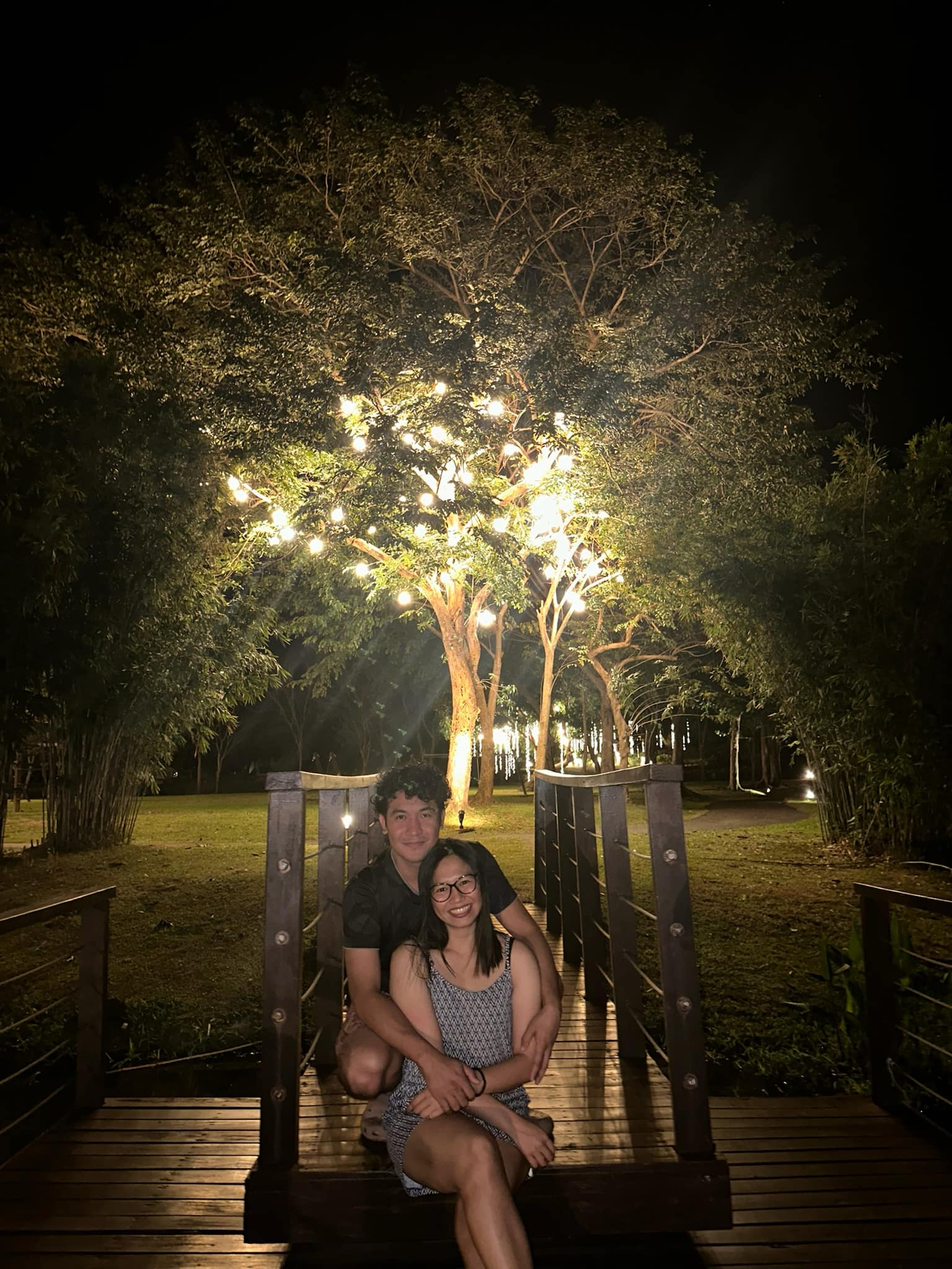
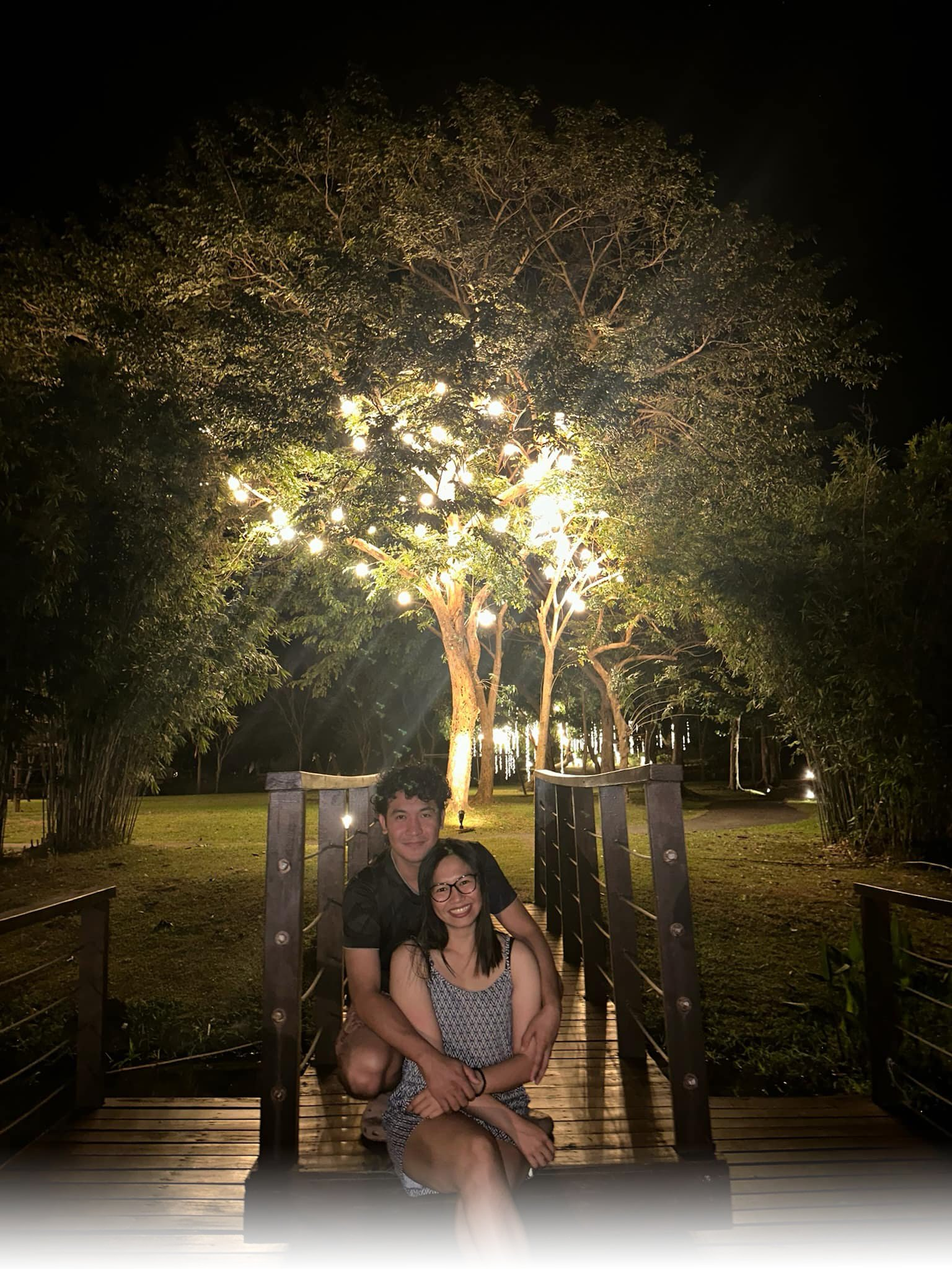
update

Changed region(s): [[0.0, 0.9062, 1.0, 1.0]]

diff --git a/index.html b/index.html
@@ -12,15 +12,15 @@
     <link href="https://fonts.googleapis.com/css2?family=Roboto:ital,wght@0,100;0,300;0,400;0,500;0,700;0,900;1,100;1,300;1,400;1,500;1,700;1,900&display=swap" rel="stylesheet">
     <link rel="stylesheet" href="style.css">
 </head>
-<body>
+<body class="bg-body-secondary">
     <div class="hero">
-        <div class="header p-2 d-flex justify-content-between align-items-center shadow">
+        <div class="header position-sticky p-2 d-flex justify-content-between align-items-center shadow">
             <div class="icon">
-                <p class="mb-0 roboto-500">Home</p>
+                <p class="mb-0 roboto-300 fs-3 pt-1">HOME</p>
             </div>
             <div class="menu">
-                <div class=" p-0"  data-bs-toggle="offcanvas" data-bs-target="#offcanvasExample" aria-controls="offcanvasExample">
-                    <i class="fa-solid fa-bars"></i>
+                <div class="p-0 pt-1"  data-bs-toggle="offcanvas" data-bs-target="#offcanvasExample" aria-controls="offcanvasExample">
+                    <i class="fa-solid fa-bars fs-3"></i>
                 </div>
                     
                 <div class="offcanvas offcanvas-start" style="width: 15rem;" tabindex="-1" id="offcanvasExample" aria-labelledby="offcanvasExampleLabel">
@@ -50,43 +50,58 @@
         <div class="landing mb-2">
             
             <div class="landing-body text-center">
-                <div>
-                    <h3 class="name alex display-1 text-light mb-0">Allen & Alexis</h3>
+                <div class="names mx-auto">
+                    <h3 class="name alex display-1 text-light mb-0" style="font-size: 7rem;">Allen</h3>
+                    <h3 class="name alex display-1 text-light mb-0" style="font-size: 7rem;">& Alexis</h3>
                 </div>
-                <div id="countdown" class="d-flex justify-content-center gap-2 text-light roboto-300">
-                    <div class="d-flex flex-column justify-content-center">
-                        <p id="day" class="fs-4 mb-0">00</p>
-                        <p class="roboto-300" style="font-size: 0.7rem;">Days</p>
-                    </div>
-                    <p class="pt-1">:</p>
-                    <div class="d-flex flex-column justify-content-center">
-                        <p id="hour" class="fs-4 mb-0">00</p>
-                        <p class="roboto-300" style="font-size: 0.7rem;">Hours</p>
-                    </div>
-                    <p class="pt-1">:</p>
-                    <div class="d-flex flex-column justify-content-center">
-                        <p id="minute" class="fs-4 mb-0">00</p>
-                        <p class="roboto-300" style="font-size: 0.7rem;">Mins</p>
-                    </div>
-                    <p class="pt-1">:</p>
-                    <div class="d-flex flex-column justify-content-center">
-                        <p id="second" class="fs-4 mb-0">00</p>
-                        <p class="roboto-300" style="font-size: 0.7rem;">Secs</p>
-                    </div>
-                </div>
+                
                
 
             </div>
             <div class="mask"></div>
-            <img src="./img/bg.jpg" alt="">
+            <img src="./img/bg (2).png" alt="">
         </div>
 
         <div class="details roboto-300 px-3">
-            <p class="text-center fs-6 mb-0">We're Getting Married</p>
-            <div class="text-center">
-                <p class="mb-2"> MAY 18TH, 2025 | SAN FERNANDO, LA UNION</p>
-                <p style="font-size: 0.6rem;">We warmly invite you to witness and celebrate the love and commitment that bring us together on this special day.</p>
+            <p class="text-center fs-1 mb-0">We're Getting Married!</p>
+
+            <div id="countdown" class="d-flex justify-content-center gap-2 roboto-300">
+                <div class="d-flex flex-column justify-content-center">
+                    <p id="day" class="fs-3 mb-0">00</p>
+                    <p class="roboto-300" style="font-size: 0.7rem;">Days</p>
+                </div>
+                <p class="pt-1">:</p>
+                <div class="d-flex flex-column justify-content-center">
+                    <p id="hour" class="fs-3 mb-0">00</p>
+                    <p class="roboto-300" style="font-size: 0.7rem;">Hours</p>
+                </div>
+                <p class="pt-1">:</p>
+                <div class="d-flex flex-column justify-content-center">
+                    <p id="minute" class="fs-3 mb-0">00</p>
+                    <p class="roboto-300" style="font-size: 0.7rem;">Mins</p>
+                </div>
+                <p class="pt-1">:</p>
+                <div class="d-flex flex-column justify-content-center">
+                    <p id="second" class="fs-3 mb-0">00</p>
+                    <p class="roboto-300" style="font-size: 0.7rem;">Secs</p>
+                </div>
             </div>
+           
+            <p class="fs-6 text-center">We warmly invite you to witness and celebrate the love and commitment that bring us together on this special day.</p>
+            
+            <button class="btn btn-primary d-block mx-auto mb-5 px-5">RSVP Here</button>
+
+            <img src="img/ring_icon.png" alt="ring.png" class="d-block mx-auto" style="width: 5rem;">
+
+            <div class="text-center mb-2">
+                <p class="mb-0 fs-2"> MAY 28TH, 2025 | SAN FERNANDO, LA UNION</p>
+            </div>
+
+            
+            <p class="fs-6 text-center"> OUR LADY OF PERPETUAL HELP
+                SAN FERNANDO LA UNION </p>
+
+            <button class="btn btn-primary d-block mx-auto">View Location</button>
         </div>
     </div>
 </body>

diff --git a/style.css b/style.css
@@ -1,6 +1,7 @@
 html {
     box-sizing: border-box;
     height: 100%;
+    font-size: 62.5%;
 }
 
 * {
@@ -48,7 +49,7 @@ html {
 
 .landing-body {
     position: absolute;
-    top: 2rem;
+    top: 5rem;
     width: 100vw;
     height: 30rem;
     z-index: 2;
@@ -56,13 +57,15 @@ html {
 
 .mask {
     position: absolute;
-    bottom: -1px;
+    top: 5rem;
     width: 100vw;
-    height: 3.2rem;
-    z-index: 2;
-    background: rgb(0,0,0);
-    background: linear-gradient(0deg, rgb(255, 255, 255) 0%, rgba(255,255,255,0) 0%, rgba(255,255,255,1) 0%, rgba(242,242,242,1) 0%, rgba(255,255,255,1) 0%, rgba(255,255,255,1) 15%, rgba(255,255,255,0) 100%);
+    height: 17rem;
+    z-index: 0;
+    background-color: rgba(0, 0, 0, 0.505);
+     
 }
+
+
 
 
 
